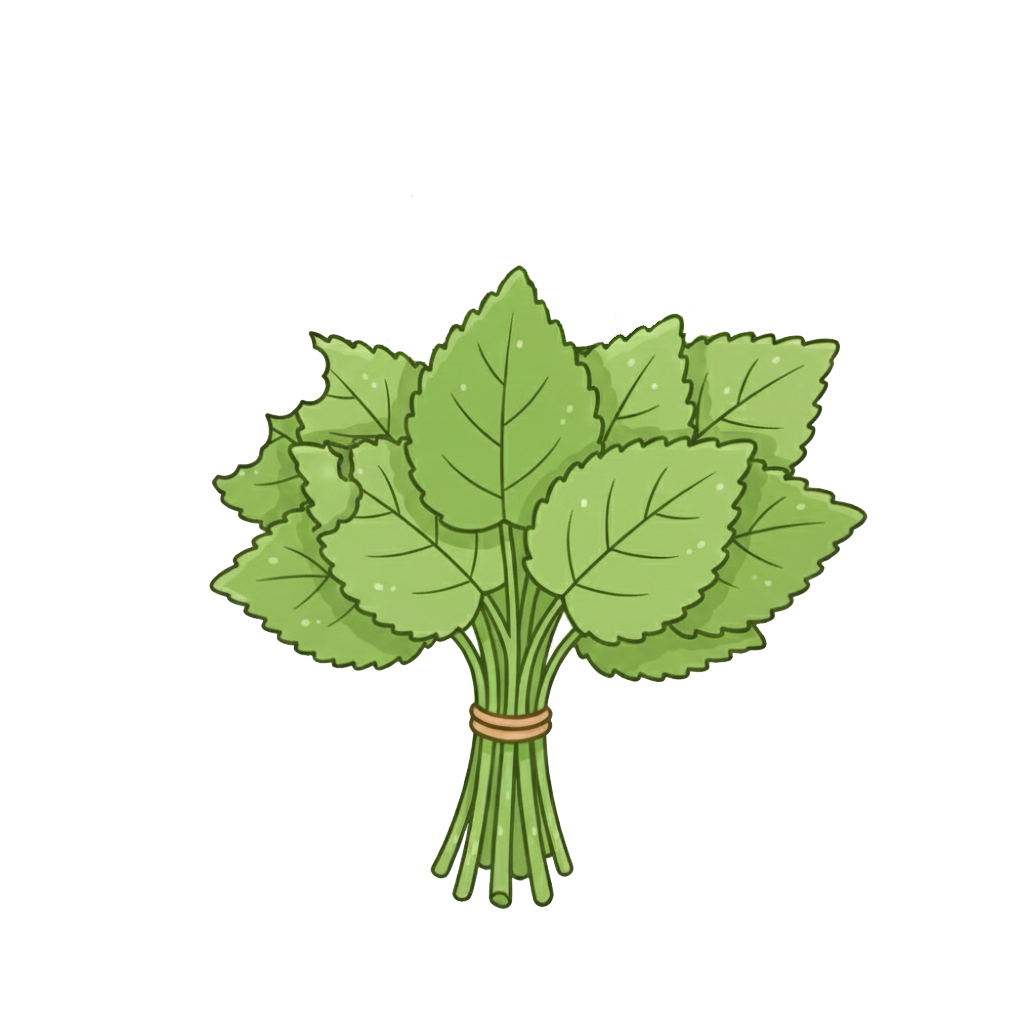
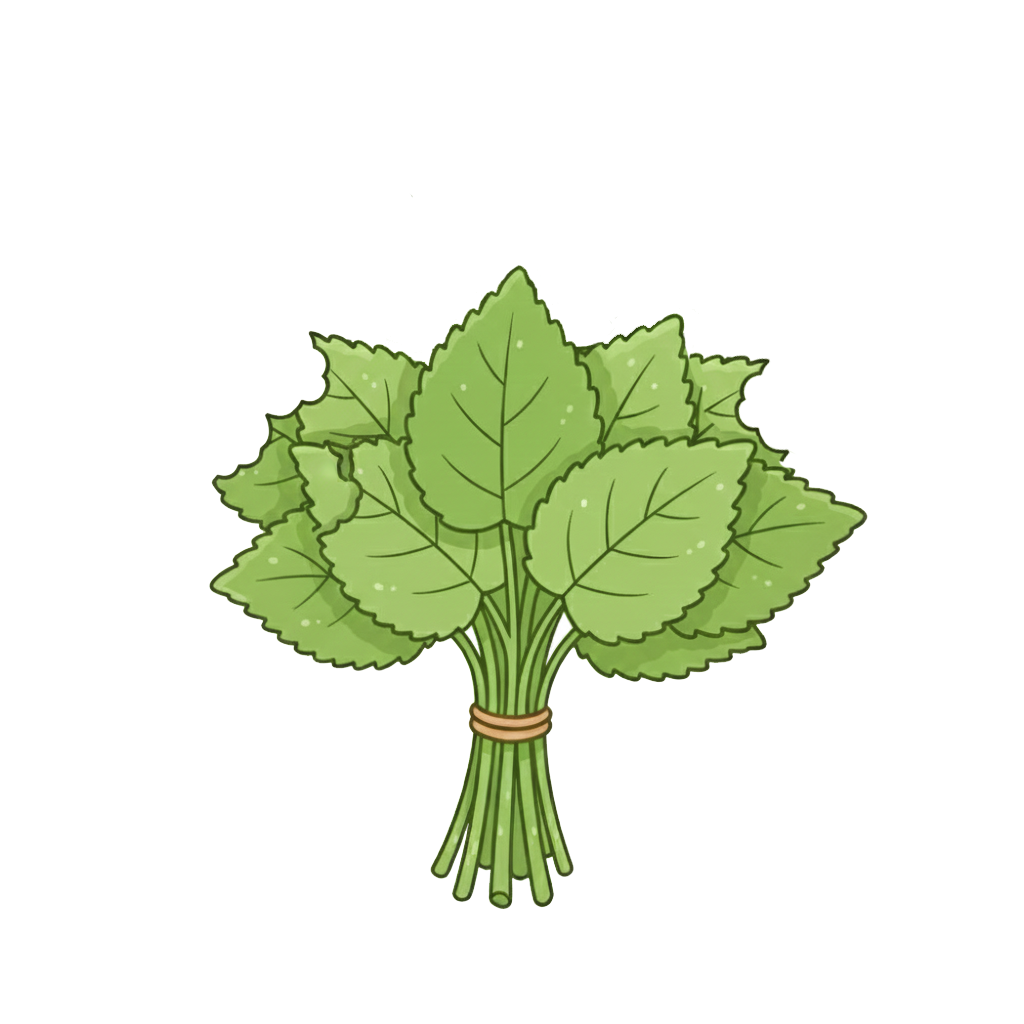
“餌を大きく”

Changed region(s): [[0.6562, 0.3125, 0.8125, 0.4688]]

diff --git a/style.css b/style.css
@@ -44,7 +44,7 @@ html, body {
   left: 50%;
   bottom: 40px;
   transform: translateX(-50%);
-  width: 120px;          /* ← 大きくする */
+  width: 150px;          /* ← 大きくする */
   max-width: 25vw;      /* ← スマホで大きくなりすぎない保険 */
   cursor: pointer;
   touch-action: none;   /* ← スマホドラッグ安定（重要） */
